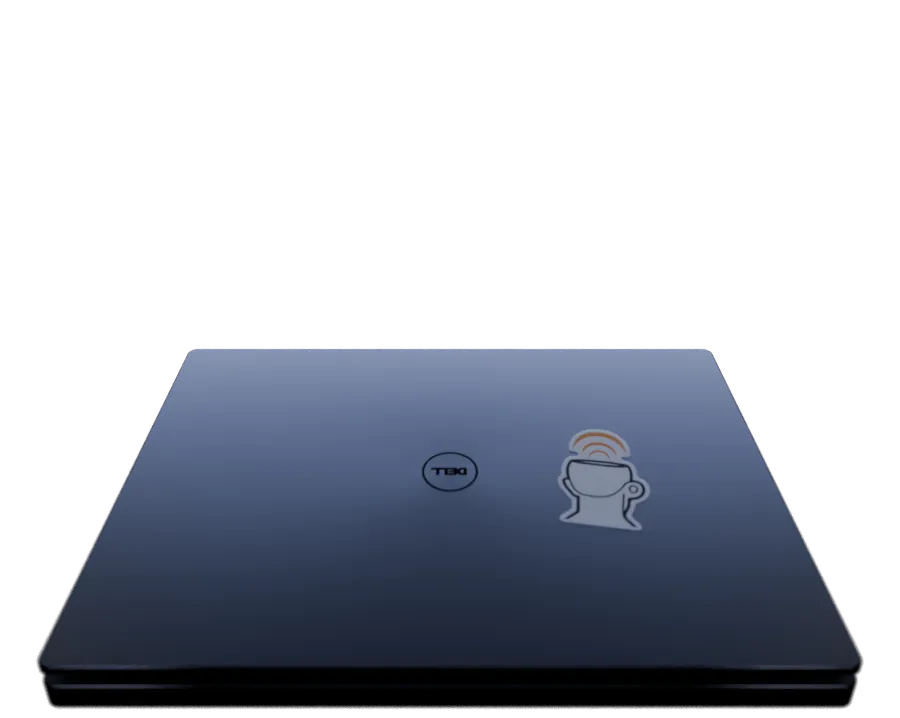
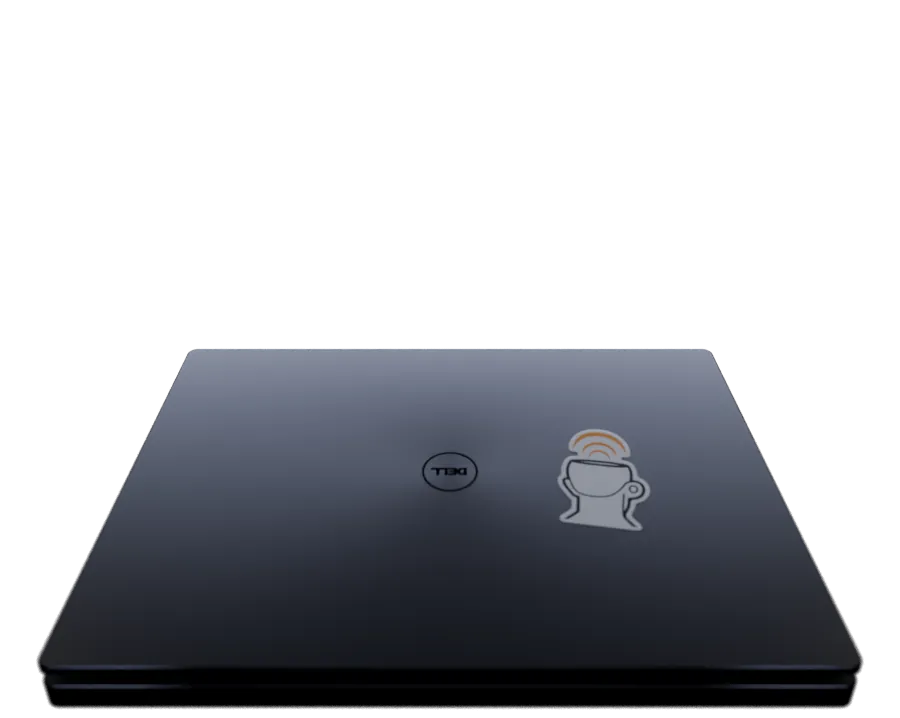
Cinema seat: neutral Titan Gray, black keys backlit at night, carbon weave, the screen's light on the seats
Art review 2: the lid had gone navy and the keys grey. Now the lid is a dark neutral metal carrying the screen's
reflection, the keycaps are black with backlit legends (on with the screen), the palm rest shows its weave, and a faint
spill of the projection lights the seat tops. 'more' sits at the end of the gist's line on every size.

diff --git a/site/cinema/cinema.css b/site/cinema/cinema.css
@@ -733,7 +733,11 @@ html, body { overscroll-behavior: none; }
 .notes.is-zoomed .chapter { grid-template-columns: 4.4em 1fr; gap: 12px; }
 /* art round 2 */
 .stage.is-seated::after { content: ""; position: absolute; inset: 0; z-index: 1; pointer-events: none;
-  background: radial-gradient(120% 95% at 50% 40%, transparent 55%, rgba(0, 0, 0, .38) 100%); }
+  background: radial-gradient(120% 95% at 50% 40%, transparent 55%, rgba(0, 0, 0, .38) 100%),
+              radial-gradient(48% 22% at 50% 52%, rgba(90, 110, 230, .10), transparent 100%); }   /* the screen's light on the seat tops */
 .tube:not(.is-on-laptop):not(.is-full) iframe { filter: contrast(.93) saturate(.9) brightness(.96); }
 .tube:not(.is-on-laptop):not(.is-full) .tube-catch { background: radial-gradient(90% 90% at 50% 50%, rgba(255, 255, 255, .025), transparent 60%, rgba(0, 0, 0, .12)); }
 .face.notes::before { box-shadow: inset 0 0 0 1px rgba(0, 0, 0, .6), inset 0 0 36px rgba(0, 0, 0, .22); }
+.notes .lead-wrap:has(.lead.is-short) { display: flex; align-items: baseline; gap: 6px; }       /* "more" at the end of the line, everywhere */
+.notes .lead-wrap:has(.lead.is-short) .lead { flex: 1; min-width: 0; }
+.notes .lead-wrap:has(.lead.is-short) .lead-more { flex: none; margin: 0; align-self: flex-end; }

diff --git a/site/cinema/index.html b/site/cinema/index.html
@@ -10,7 +10,7 @@
 <link rel="preconnect" href="https://fonts.googleapis.com">
 <link rel="preconnect" href="https://fonts.gstatic.com" crossorigin>
 <link href="https://fonts.googleapis.com/css2?family=Archivo:wdth,wght@62..125,400..800&display=swap" rel="stylesheet">
-<link rel="stylesheet" href="cinema.css?v=c79f7f4b64">
+<link rel="stylesheet" href="cinema.css?v=e3ccae14c4">
 </head>
 <body>
 <nav class="seatbar" id="seatbar" hidden><button class="chip" id="toProg" type="button"><span aria-hidden="true">←</span> Programme</button></nav>

diff --git a/scripts/blender/build_laptop.py b/scripts/blender/build_laptop.py
@@ -110,7 +110,7 @@ def obj_coords(nt, scale):
 
 # "Titan Gray" anodised aluminium: satin, a faint grain; the diamond-cut chamfers bright
 M = {}
-M["alu"] = principled("alu", 0x5F636B, 0.35, metal=1.0, aniso=0.3)    # Titan Gray in a dark room: it shows what's in front
+M["alu"] = principled("alu", 0x55565A, 0.32, metal=1.0, aniso=0.4)    # Titan Gray in a dark room: it shows what's in front
 nt = M["alu"].node_tree
 noise = node(nt, "ShaderNodeTexNoise", Scale=9000.0, Detail=2.0)
 nt.links.new(obj_coords(nt, 1.0), noise.inputs["Vector"])
@@ -121,13 +121,13 @@ M["hinge"] = principled("hinge", 0x3A3B3E, 0.4, metal=1.0)
 M["carbon"] = principled("carbon", 0x2E2E30, 0.6, sheen=0.08)
 nt = M["carbon"].node_tree
 chk = node(nt, "ShaderNodeTexChecker", Scale=1.0)
-chk.inputs["Color1"].default_value = srgb(0x29292B)
+chk.inputs["Color1"].default_value = srgb(0x232325)
 chk.inputs["Color2"].default_value = srgb(0x343437)
 nt.links.new(obj_coords(nt, 1000.0), chk.inputs["Vector"])
 nt.links.new(chk.outputs["Color"], nt.nodes["Principled BSDF"].inputs["Base Color"])
 wave = node(nt, "ShaderNodeTexWave", Scale=1.0, Distortion=0.0)
 nt.links.new(obj_coords(nt, 1000.0), wave.inputs["Vector"])
-bump(M["carbon"], wave.outputs["Fac"], 0.08)
+bump(M["carbon"], wave.outputs["Fac"], 0.3)
 # speaker grilles: the deck perforated in a fine grid of holes
 M["grille"] = principled("grille", 0x232325, 0.6)
 nt = M["grille"].node_tree
@@ -139,10 +139,10 @@ ramp.color_ramp.elements[0].color, ramp.color_ramp.elements[1].color = srgb(0x05
 nt.links.new(vor.outputs["Distance"], ramp.inputs["Fac"])
 nt.links.new(ramp.outputs["Color"], nt.nodes["Principled BSDF"].inputs["Base Color"])
 bump(M["grille"], ramp.outputs["Color"], 0.3)
-M["key"] = principled("key", 0x1C1C1E, 0.42, coat=0.15, coat_rough=0.3)
-M["legend"] = principled("legend", 0xCFCFD2, 0.6)
+M["key"] = principled("key", 0x121214, 0.5)
+M["legend"] = principled("legend", 0xDADADF, 0.6, emission=0xE8ECFF, strength=0.0)   # backlit at night
 M["pad"] = principled("pad", 0x202022, 0.3, coat=0.3, coat_rough=0.15)
-M["bezel"] = principled("bezel", 0x050506, 0.3, coat=0.5, coat_rough=0.08)
+M["bezel"] = principled("bezel", 0x0A0A0C, 0.3, coat=0.8, coat_rough=0.05)
 M["display"] = principled("display", 0x000000, 0.5, emission=0x1A2140, strength=0.0)   # pure black under the notes (the page adds the glass)
 M["camera"] = principled("camera", 0x0A0A12, 0.05, coat=1.0)
 M["logo"] = principled("logo", 0xF2F2F4, 0.05, metal=1.0)          # mirror-polished: it catches the screen
@@ -410,7 +410,7 @@ def area(name, loc, size, power, color, target, shape="RECTANGLE"):
 
 
 # the projected screen far ahead and up (19 x 7 m, ~15 m away): the key light, and the long reflection on the lid
-area("cinema-screen", (0, 15.0, 4.2), (19.0, 7.2), 8000.0, (0.42, 0.47, 0.72), (0, 0, 0))   # the projected light: bluish, not saturated
+area("cinema-screen", (0, 15.0, 4.2), (19.0, 7.2), 8000.0, (0.55, 0.58, 0.72), (0, 0, 0))   # the projected light: bluish, not saturated
 # house lights: two warm spots high on either side, for glints on the chamfers; a faint fill from the aisle
 for sx in (-1, 1):
     sp = bpy.data.lights.new(f"spot-{sx}", "SPOT")
@@ -563,7 +563,8 @@ only = set(args.only.split(","))
 def shoot(angle, path, samples, width, spill):
     set_lid(angle)
     M["display"].node_tree.nodes["Principled BSDF"].inputs["Emission Strength"].default_value = 0.0
-    screen_glow.data.energy = spill * 2.2                          # watts: a dark-mode screen's glow on the keys
+    M["legend"].node_tree.nodes["Principled BSDF"].inputs["Emission Strength"].default_value = 1.6 if spill else 0.0   # backlight on with the screen
+    screen_glow.data.energy = spill * 1.6                          # watts: a dark-mode screen's glow on the keys
     if not args.preview:
         scene.cycles.samples = samples
     scene.render.resolution_x, scene.render.resolution_y = width, round(width * HPX / WPX)
